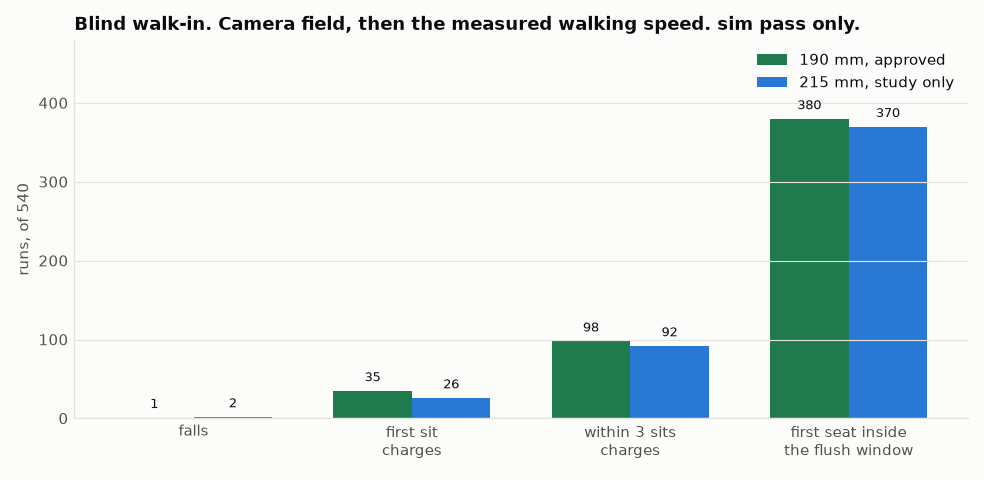
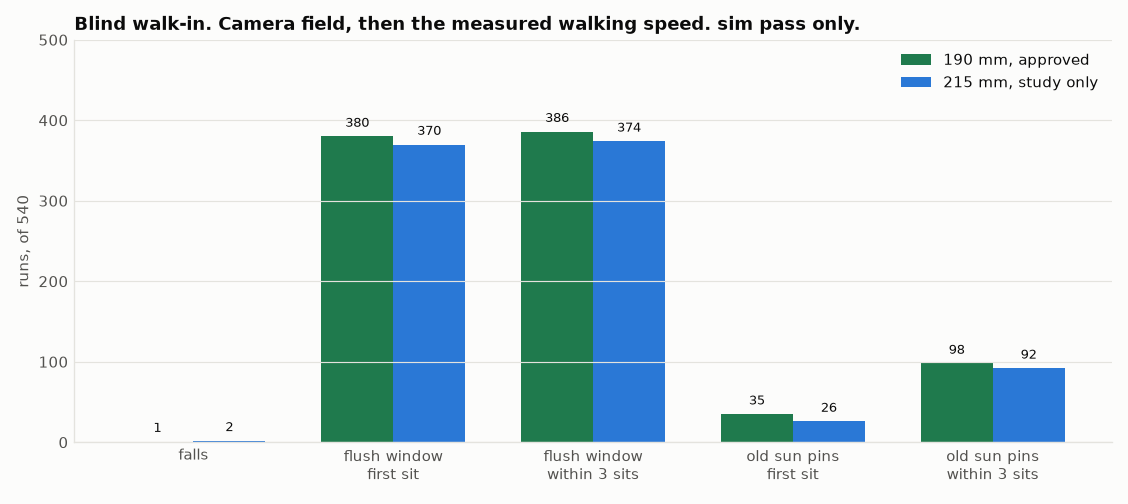
Name the two blind-walk scores so 35 and 380 are not read as one test.
The 35 of 540 is the old sun-and-ring pin rule. The headline is the flush box: 380 of 540 at the first sit and 386 of 540 within 3 sits. The old pin counts stay as a second column.

diff --git a/altaay_lab/twin/dock/blind/figs.py b/altaay_lab/twin/dock/blind/figs.py
@@ -13,19 +13,19 @@ plt.rcParams.update({"font.size": 9, "axes.edgecolor": GRID, "axes.labelcolor": 
                      "ytick.color": MUT, "text.color": INK, "axes.spines.top": False, "axes.spines.right": False,
                      "figure.facecolor": SURF, "axes.facecolor": SURF, "font.family": "DejaVu Sans"})
 
-# counts of 540, from score.py on blind_runs_b190.json and blind_runs_b215.json
-labels = ["falls", "first sit\ncharges", "within 3 sits\ncharges", "first seat inside\nthe flush window"]
-a190 = [1, 35, 98, 380]
-a215 = [2, 26, 92, 370]
+# counts of 540. Headline is the flush window. The old sun-and-ring pin test is the smaller pair.
+labels = ["falls", "flush window\nfirst sit", "flush window\nwithin 3 sits", "old sun pins\nfirst sit", "old sun pins\nwithin 3 sits"]
+a190 = [1, 380, 386, 35, 98]
+a215 = [2, 370, 374, 26, 92]
 x = np.arange(len(labels))
 w = 0.36
-fig, ax = plt.subplots(figsize=(8.2, 4.0))
+fig, ax = plt.subplots(figsize=(9.4, 4.2))
 b1 = ax.bar(x - w / 2, a190, w, color="#1f7a4d", label="190 mm, approved")
 b2 = ax.bar(x + w / 2, a215, w, color="#2a78d6", label="215 mm, study only")
 ax.set_xticks(x)
 ax.set_xticklabels(labels)
 ax.set_ylabel("runs, of 540")
-ax.set_ylim(0, 480)
+ax.set_ylim(0, 500)
 ax.legend(frameon=False)
 ax.grid(axis="y", color=GRID, lw=0.7)
 ax.tick_params(length=0)

diff --git a/altaay_lab/twin/dock/blind/BLIND_WALK.md b/altaay_lab/twin/dock/blind/BLIND_WALK.md
@@ -15,17 +15,29 @@ The duck does not get the true pose. It gets a pose only while the sun centre is
 command. Same 540 seeds as the nest matrices. The walk law is the mixed one from the nest sim v3: steering
 at 6.0 V, a straight crossing at 7.2 V, two 1 mm steps, aim 20 mm right at 7.2 V.
 
-At 190 mm (the approved distance): **1 fall**. The first sit charges in **35 of 540**. Within 3 sits,
-**98 of 540**. The first seat lands inside the flush window in **380 of 540**. The same controller with
-the pose stand-in charged at the first sit in 531 of 540 (sim pass only, nest sim v3). Taking the pose
-away drops that to 35.
+Two different tests were easy to mix up. They are not the same number.
 
-Moving the sun to 215 mm does not fix it (study only): **2 falls**, first sit **26 of 540**, within 3
-sits **92 of 540**, first seat in the window **370 of 540**.
+- **Flush window (the headline).** The belly field from the flush study: the seat centre may sit anywhere
+  inside +/-254 mm along the wall and +/-161 mm deep (calc only, that study's section 6). A sit "charges"
+  here when the first seat centre, the mean of the two seat pins, is inside that box. This is the design
+  the flush study points at. It is not a pin-on-cloth measurement.
+- **Old sun and ring (kept, secondary).** The nest sim's own rule: at least one seat pin on the 50 mm
+  sun, at least one bumper pin on the ring, no pin on the wrong zone, and the spring compressed
+  (`nestlib.score_nest`, the 45 mm landing window). That is the **35**.
+
+At 190 mm (the approved distance): **1 fall**. Flush window, first sit **380 of 540**, within 3 sits
+**386 of 540**. Old sun and ring, first sit **35 of 540**, within 3 sits **98 of 540**. The same
+controller with the pose stand-in, scored on the old sun and ring, charged at the first sit in 531 of
+540 (sim pass only, nest sim v3). The blind run does not keep that. It does put most first seats in the
+much larger flush box.
+
+Moving the sun to 215 mm does not fix it (study only): **2 falls**. Flush window, first sit **370 of
+540**, within 3 sits **374 of 540**. Old sun and ring, first sit **26 of 540**, within 3 sits **92 of
+540**.
 
 Integrating the raw walk command, instead of the measured speed, is worse. The duck stops about 280 mm
-short of the sun. **0 of 540** charge, and **1 of 528** first seats fall in the window (sim pass only,
-`blind_runs_command.json`).
+short of the sun. Flush window, first sit **1 of 540** and within 3 sits **1 of 540**. Old sun and ring,
+**0 of 540** at the first sit and within 3 sits (sim pass only, `blind_runs_command.json`).
 
 ![counts](F1_blind.png)
 
@@ -71,32 +83,38 @@ Re-sits get no new view of the sun. They reshuffle on the dead-reckoned estimate
 
 ## 2. The 540 runs
 
-The flush window, calc only, from the flush study (not merged into this branch; the numbers are that
-study's section 6): the seat centre may sit anywhere inside +/-254 mm along the wall and +/-161 mm
-deep. Here that is |y| <= 254 mm and |x| <= 161 mm, sun at the origin, x toward the wall. A landing in
-that box is not the same thing as the four pins charging on the sun and the ring.
+The headline is the flush window. Calc only, from the flush study (that folder was not edited; the
+numbers are its section 6): the seat centre may sit anywhere inside +/-254 mm along the wall and
++/-161 mm deep. Here that is |y| <= 254 mm and |x| <= 161 mm, sun at the origin, x toward the wall.
+"Within 3 sits" means any of the up to three sits has its seat centre in that box.
+
+The secondary column is the old nest rule, `nestlib.score_nest`: at least one seat pin on the sun
+(inside 47 mm of the centre, the 50 mm disc less the 3 mm tip margin), at least one bumper pin on the
+ring, no pin on the wrong zone, spring compressed. The 45 mm radius quoted in the nest CAD is that
+family of window. It is much smaller than the flush box. A seat can be inside the flush box and still
+fail this pin test. That is why 380 and 35 can both be true.
 
 | sim pass only | 190 mm | 215 mm, study only |
 |---|---|---|
 | Runs | 540 | 540 |
 | Falls | 1 | 2 |
 | Reached a sit | 528 | 517 |
-| Charge at the first sit | 35 | 26 |
-| Charge within 3 sits | 98 | 92 |
-| First seat inside the flush window | 380 | 370 |
-| Any of the sits inside the window | 386 | 374 |
-| 6.0 V falls / first sit / within 3 / window | 0 / 8 / 18 / 183 | 1 / 9 / 24 / 175 |
-| 7.2 V falls / first sit / within 3 / window | 1 / 27 / 80 / 197 | 1 / 17 / 68 / 195 |
+| Flush window, first sit | 380 | 370 |
+| Flush window, within 3 sits | 386 | 374 |
+| Old sun and ring, first sit | 35 | 26 |
+| Old sun and ring, within 3 sits | 98 | 92 |
+| 6.0 V falls / flush first / flush within 3 / old first / old within 3 | 0 / 183 / 187 / 8 / 18 | 1 / 175 / 178 / 9 / 24 |
+| 7.2 V falls / flush first / flush within 3 / old first / old within 3 | 1 / 197 / 199 / 27 / 80 | 1 / 195 / 196 / 17 / 68 |
 
 Of the runs that sat at 190 mm, the first seat is 52 mm short of the sun on average and 69 mm to the
 side (1 sigma 122 mm and 105 mm). Median radial miss 130 mm, 95th 311 mm. At 215 mm the mean is 55 mm
 short and 78 mm to the side, median radial 143 mm.
 
-The pose-stand-in run of this same walk law, at 190 mm, charged at the first sit in 531 of 540 and
-within 3 sits in 540 of 540, with 0 falls (sim pass only, twin/dock/nest/sim/v3/NEST_SIM_V3.md). The
-blind run keeps the falls low (1 and 2) and loses the charge. The flush window, which is much larger
-than the 50 mm sun, still holds 380 of 540 first seats at 190 mm and 370 of 540 at 215 mm. 160 first
-seats at 190 mm, and 170 at 215 mm, miss even that box.
+The pose-stand-in run of this same walk law, at 190 mm, passed the old sun and ring test at the first
+sit in 531 of 540 and within 3 sits in 540 of 540, with 0 falls (sim pass only,
+twin/dock/nest/sim/v3/NEST_SIM_V3.md). The blind run keeps the falls low (1 and 2). On the old sun and
+ring test it falls to 35 and 98. On the flush window it holds 380 of 540 at the first sit and 386 of
+540 within 3 sits. 160 first seats at 190 mm, and 170 at 215 mm, miss even that box.
 
 Head to wall is a geometry check. The sim does not push the duck back. At 190 mm, 182 of 540 runs have
 a part past the wall plane or inside the rim block. At 215 mm, 156 of 540 do. The blind last stretch
@@ -104,13 +122,13 @@ still walks some ducks into the wall plane. Moving the sun out by 25 mm does not
 
 ## 3. What this does and does not say
 
-The camera can carry the duck until about half a metre. It cannot finish the sit. Dead reckoning at the
-measured walking speed puts the seat in the big flush box more often than not (380 of 540), and on the
-sun's pins rarely (35 of 540). Three re-sits, still blind, raise the pin charge from 35 to 98. They do
-not raise the window count by much (380 to 386), because a bad first seat stays bad.
+The camera can carry the duck until about half a metre. After that, dead reckoning at the measured
+walking speed puts the seat in the flush box in 380 of 540 runs at the first sit, and in 386 of 540
+within 3 sits. The same landings pass the old sun and ring pin test in only 35 of 540 at the first sit,
+and 98 of 540 within 3 sits. Three blind re-sits add 6 seats to the flush box and 63 passes to the old
+pin test. A bad first seat usually stays outside the box.
 
-215 mm is not an improvement. Charge is a little worse. The window count is a little worse. It is a
-study. 190 mm stays the approved distance.
+215 mm is not an improvement on either test. It is a study. 190 mm stays the approved distance.
 
 Not done: a real image, a detector, light, or the head held at the -25 degree stop so the last look is
 the 0.30 m case in the camera twin. The pupil is 40 mm in front of the head body, not the measured

diff --git a/altaay_lab/history/2026-11-12_0648_blind_two_scores.md b/altaay_lab/history/2026-11-12_0648_blind_two_scores.md
@@ -1,0 +1,11 @@
+# 2026-11-12 6:48 AM ET: the blind walk-in has two scores, and they are not the same test
+
+Labels: sim pass only for the counts. The flush box is calc only. Nothing was re-simulated. The 6:45 AM
+entry is kept as written.
+
+- The 35 of 540 is the old nest pin rule: at least one seat pin on the 50 mm sun, at least one bumper pin
+  on the ring, no pin on the wrong zone. The 380 of 540 is the seat centre inside the flush box, +/-254 mm
+  along the wall and +/-161 mm deep. A seat can pass the box and fail the pins. twin/dock/blind/BLIND_WALK.md
+  now says that in the first paragraphs.
+- Headline, flush box, 190 mm (sim pass only): first sit 380 of 540, within 3 sits 386 of 540. Old pin
+  rule, secondary: 35 and 98. At 215 mm, study only: flush box 370 and 374, old pins 26 and 92.
